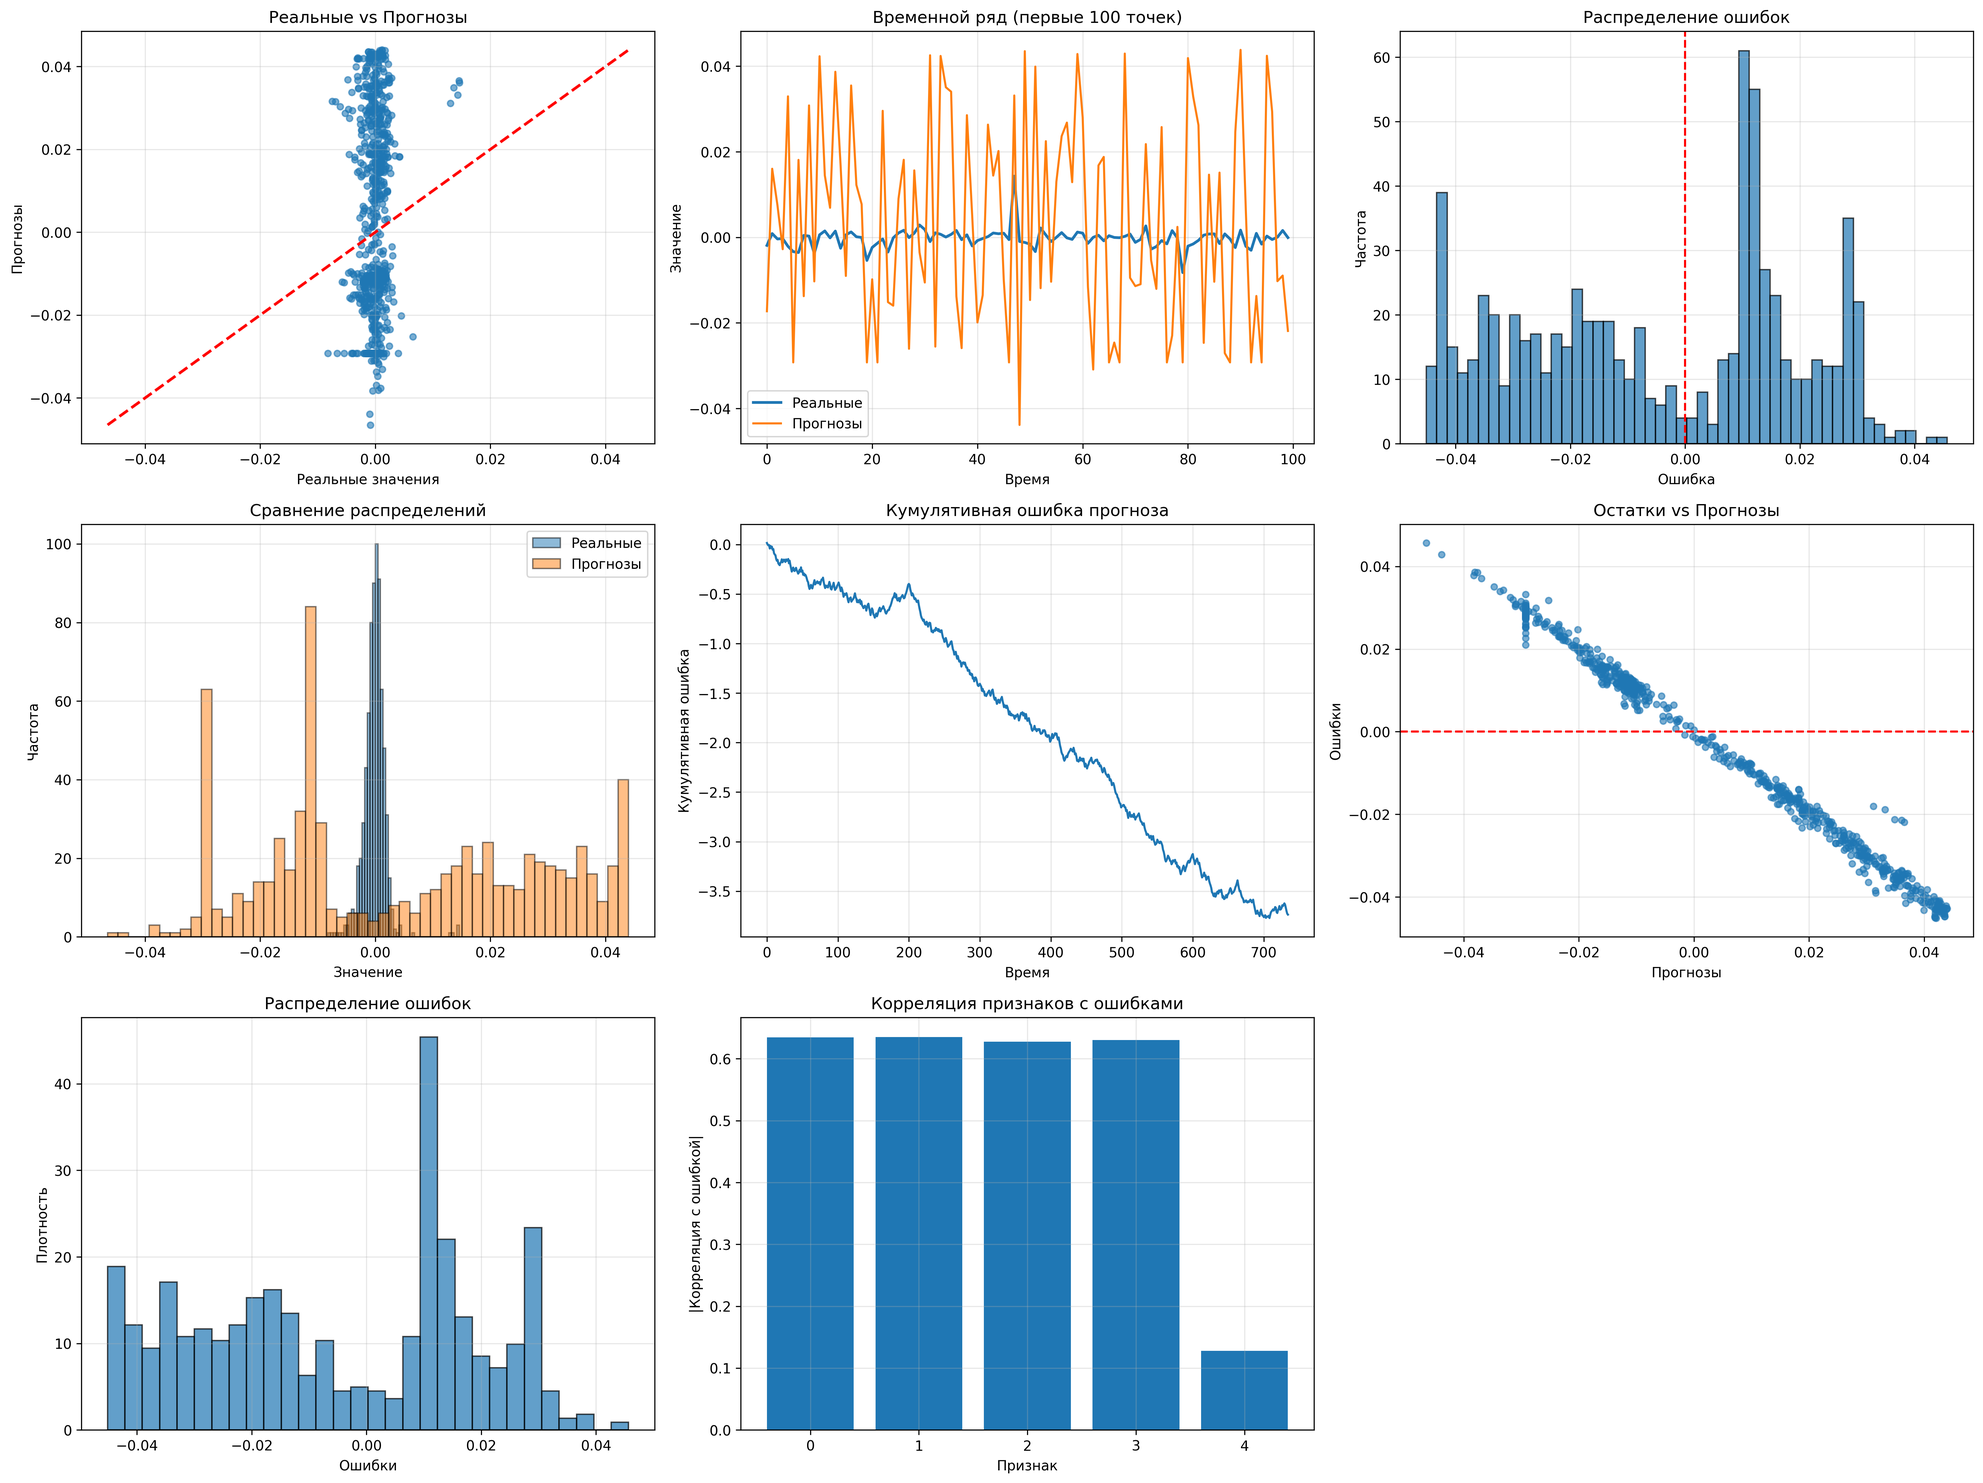
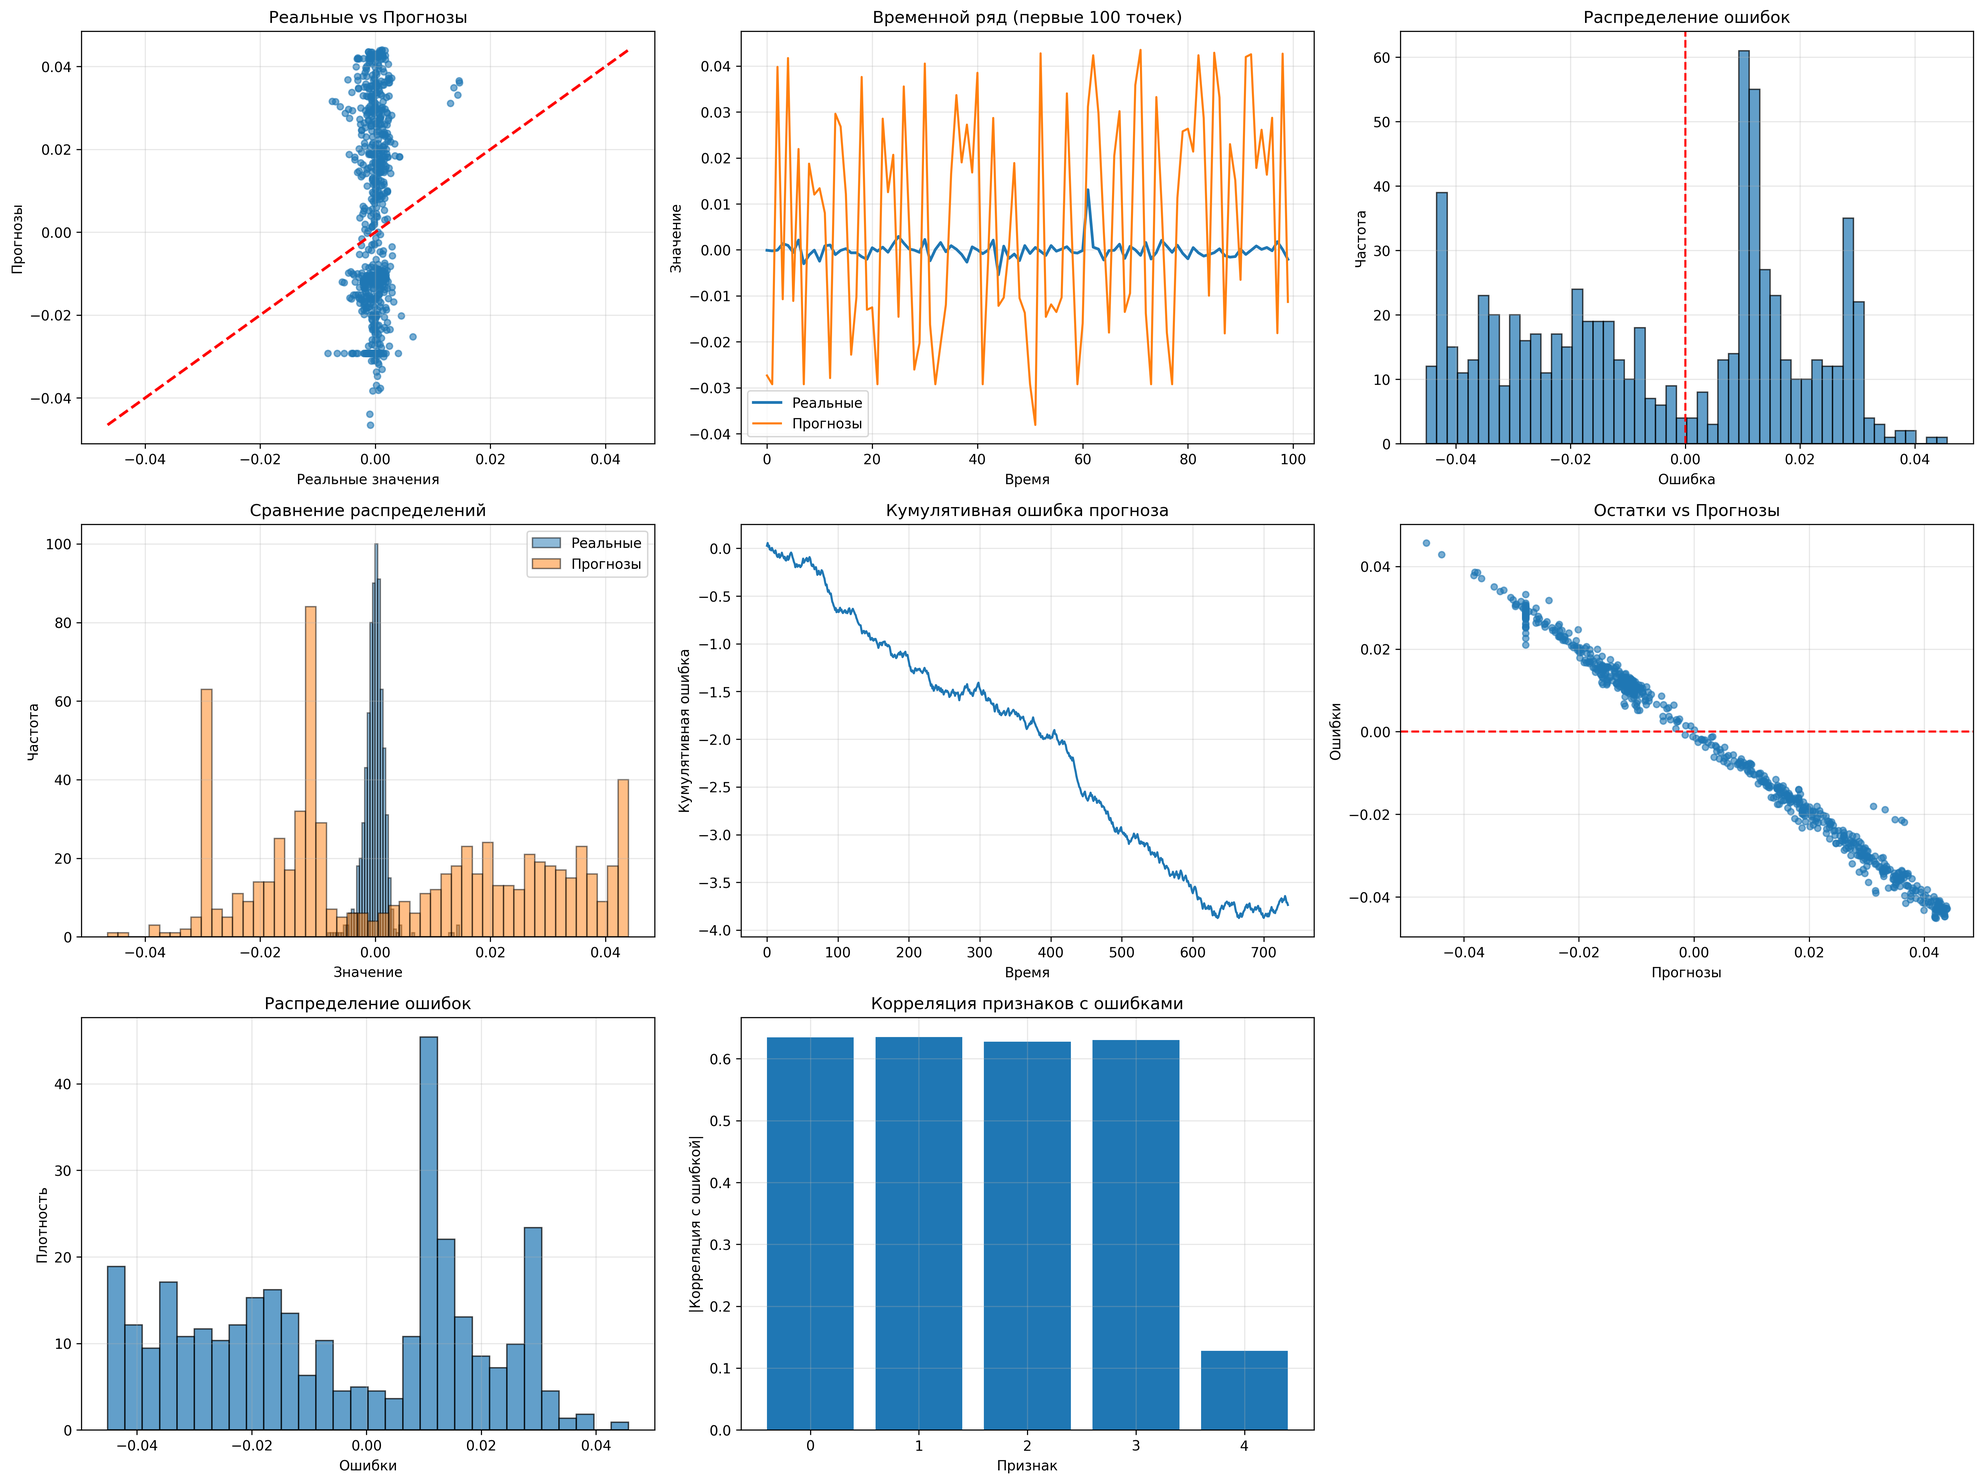
next

diff --git a/neuro.py b/neuro.py
@@ -1,12 +1,9 @@
-import os
-import pickle
 import numpy as np
 import pandas as pd
 import tensorflow as tf
 import talib
 import matplotlib
 from matplotlib import pyplot as plt
-from sklearn.model_selection import train_test_split
 from sklearn.preprocessing import StandardScaler  # ← Изменил на StandardScaler
 matplotlib.use('TkAgg')
 
@@ -14,7 +11,7 @@ VERSION = "2.5"  # ← Обновил версию
 MIN = 10
 TIMESTEP = 100
 BATCH_SIZE = 32  # ← Увеличил для GPU
-PREDICTION = -5  # ← Упростил прогноз
+PREDICTION = -20  # ← Упростил прогноз
 VOLUME_DATA = 100000
 FILE_NAME = 'BD/SBER_10.csv'
 
@@ -116,27 +113,21 @@ class NeuroBrain:
         return np.array(Xs), np.array(ys)
 
     def simple_directional_loss(self, y_true, y_pred):
-        """Исправленная функция потерь"""
+        """Упрощенная функция потерь с учетом направления"""
         # Основная MSE loss
         mse_loss = tf.reduce_mean(tf.square(y_true - y_pred))
 
-        # Directional component (для всего батча)
-        true_changes = y_true[1:] - y_true[:-1]  # Изменения между последовательными точками
+        # Вычисление правильных направлений
+        true_changes = y_true[1:] - y_true[:-1]
         pred_changes = y_pred[1:] - y_pred[:-1]
 
-        # Правильные направления (same sign)
-        correct_directions = tf.cast(
-            tf.equal(tf.sign(true_changes), tf.sign(pred_changes)),
-            tf.float32
+        # Directional accuracy
+        directional_accuracy = tf.reduce_mean(
+            tf.cast(tf.sign(true_changes) == tf.sign(pred_changes), tf.float32)
         )
 
-        # Directional accuracy (чем больше тем лучше)
-        directional_accuracy = tf.reduce_mean(correct_directions)
-
-        # Комбинируем: 90% MSE + 10% directional
-        total_loss = 0.9 * mse_loss + 0.1 * (1.0 - directional_accuracy)
-
-        return total_loss
+        # Комбинированная loss: 90% MSE + 10% directional
+        return 0.9 * mse_loss + 0.1 * (1.0 - directional_accuracy)
 
     def plot_predictions(self, y_true, y_pred, title="Прогноз vs Реальность"):
         """Визуализация прогнозов"""
@@ -167,15 +158,9 @@ if __name__ == "__main__":
     # Создание фич
     df = neuro.data_create(data)
 
-    # УПРОЩЕННАЯ целевая переменная - прогноз на 5 шагов вперед
-    df["target"] = (df["close"].shift(-5) / df["close"]) - 1  # ← Простой и понятный target
+    df["target"] = (df["close"].shift(-20) / df["close"]) - 1
 
-    # Удаляем NaN
     df = df.dropna()
-
-    print("=== ИНФОРМАЦИЯ О ДАННЫХ ===")
-    print(f"Размер данных: {len(df)}")
-    print(f"Колонки: {df.columns.tolist()}")
 
     # Подготовка фич и target
     features = df[neuro.feature_columns]
@@ -184,8 +169,6 @@ if __name__ == "__main__":
     # Масштабирование
     feature_scaler = StandardScaler()
     features_scaled = feature_scaler.fit_transform(features)
-
-
 
     # Создание последовательностей
     X_seq, y_seq = neuro.create_sequences(features_scaled, target.values, TIMESTEP)
@@ -207,72 +190,21 @@ if __name__ == "__main__":
     X_test = X_seq[train_size + val_size:]
     y_test = y_seq[train_size + val_size:]
 
-    print(f"\n=== РАЗДЕЛЕНИЕ ДАННЫХ ===")
-    print(f"Train: {len(X_train)} samples")
-    print(f"Val: {len(X_val)} samples")
-    print(f"Test: {len(X_test)} samples")
-
-    # Диагностика target
-    print(f"\n=== ДИАГНОСТИКА TARGET ===")
-    print(f"Train target - Min: {y_train.min():.6f}, Max: {y_train.max():.6f}")
-    print(f"Train target - Mean: {y_train.mean():.6f}, Std: {y_train.std():.6f}")
 
     target_scaler = StandardScaler()
     y_train_scaled = target_scaler.fit_transform(y_train.reshape(-1, 1)).flatten()
     y_val_scaled = target_scaler.transform(y_val.reshape(-1, 1)).flatten()
 
-    # Создание и компиляция модели
-    model = neuro.build_model((X_train.shape[1], X_train.shape[2]))
 
+    model = neuro.build_model((X_train.shape[1], X_train.shape[2]))
+    print(X_train.shape[1], X_train.shape[2])
     model.compile(
         optimizer=tf.keras.optimizers.Adam(learning_rate=0.001),
-        loss='mse',  # ← Начните с простого MSE
+        loss='mse',
         metrics=['mae', 'mse']
     )
-
-    print(f"\n=== ИНФОРМАЦИЯ О МОДЕЛИ ===")
     model.summary()
 
-    # Проверка предсказаний ДО обучения
-    print("=== ПРОВЕРКА МОДЕЛИ ДО ОБУЧЕНИЯ ===")
-
-    # Сделаем предсказания на первых 10 samples ДО обучения
-    initial_predictions = model.predict(X_train[:10], verbose=0).flatten()
-    print("Предсказания ДО обучения:")
-    print(initial_predictions)
-
-    print(f"Среднее предсказаний: {np.mean(initial_predictions):.6f}")
-    print(f"Стандартное отклонение: {np.std(initial_predictions):.6f}")
-
-    # Проверяем веса модели
-    print(f"\n=== ПРОВЕРКА ВЕСОВ ===")
-    for layer in model.layers:
-        if hasattr(layer, 'weights') and layer.weights:
-            weights = layer.get_weights()
-            if len(weights) > 0:
-                weight_mean = np.mean(np.abs(weights[0]))
-                print(f"{layer.name}: mean weight = {weight_mean:.6f}")
-
-    # Быстрое обучение на 1 эпоху чтобы посмотреть тренд
-    print(f"\n=== БЫСТРЫЙ ТЕСТ НА 1 ЭПОХУ ===")
-    # Быстрое обучение (строка ~95):
-    test_history = model.fit(
-        X_train[:1000], y_train_scaled[:1000],  # ← y_train_scaled
-        epochs=1, batch_size=32, verbose=1
-    )
-
-    # Проверяем предсказания ПОСЛЕ 1 эпохи
-    after_predictions = model.predict(X_train[:10], verbose=0).flatten()
-    print("Предсказания ПОСЛЕ 1 эпохи:")
-    print(after_predictions)
-    print(f"Среднее после обучения: {np.mean(after_predictions):.6f}")
-    print(f"Стандартное отклонение после: {np.std(after_predictions):.6f}")
-
-    # Если стандартное отклонение близко к 0 - модель предсказывает константу!
-    if np.std(after_predictions) < 0.0001:
-        print("🚨 МОДЕЛЬ ПРЕДСКАЗЫВАЕТ КОНСТАНТУ!")
-    else:
-        print("✅ Модель учится нормально")
 
     # Обучение
     print(f"\n=== НАЧАЛО ОБУЧЕНИЯ ===")
@@ -292,21 +224,3 @@ if __name__ == "__main__":
     # Сохранение модели
     model.save(MODEL_NAME)
     print(f"Модель сохранена как: {MODEL_NAME}")
-
-    test_predictions_scaled = model.predict(X_test, verbose=0).flatten()
-    test_predictions = target_scaler.inverse_transform(test_predictions_scaled.reshape(-1, 1)).flatten()
-
-    # Тестирование и визуализация
-    test_predictions = model.predict(X_test, verbose=0).flatten()
-
-    # Метрики качества
-    test_mae = np.mean(np.abs(y_test - test_predictions))
-    test_mse = np.mean((y_test - test_predictions) ** 2)
-
-    print(f"\n=== РЕЗУЛЬТАТЫ ТЕСТИРОВАНИЯ ===")
-    print(f"Test MAE: {test_mae:.6f}")
-    print(f"Test MSE: {test_mse:.6f}")
-
-    # Визуализация прогнозов
-    neuro.plot_predictions(y_test, test_predictions,
-                           f"Прогноз vs Реальность (MAE: {test_mae:.4f})")

diff --git a/graf.py b/graf.py
@@ -1,10 +1,15 @@
+import numpy as np
 import pandas as pd
 import matplotlib.pyplot as plt
 import matplotlib
+from sklearn.preprocessing import StandardScaler
+
+import neuro
+
 matplotlib.use('TkAgg')
 
 # Загружаем данные
-df = pd.read_csv('BD/SBER_10_NOW.csv').tail(1000)
+df = pd.read_csv('BD/SBER_10_NOW.csv').head(1000)
 
 for i in range(1, 21):
     df[f'close_plus_{i}'] = df['close'].shift(-i)
@@ -18,22 +23,47 @@ close_columns = [f'close_plus_{i}' for i in range(1, 21)]
 df['max_next_20'] = df[close_columns].max(axis=1)
 df['ver'] = (df['close'] / df['close'].shift(1)) - 1
 
-df["target"] = ((df["close"].shift(-1) / df["close"]) - 1) + \
-               ((df["close"].shift(-2) / df["close"].shift(-1)) - 1) + \
-               ((df["close"].shift(-3) / df["close"].shift(-2)) - 1) + \
-               ((df["close"].shift(-4) / df["close"].shift(-3)) - 1) + \
-               ((df["close"].shift(-5) / df["close"].shift(-4)) - 1) + \
-               ((df["close"].shift(-6) / df["close"].shift(-5)) - 1) + \
-               ((df["close"].shift(-7) / df["close"].shift(-6)) - 1) + \
-               ((df["close"].shift(-8) / df["close"].shift(-7)) - 1) + \
-               ((df["close"].shift(-9) / df["close"].shift(-8)) - 1) + \
-               ((df["close"].shift(-10) / df["close"].shift(-9)) - 1) + \
-               ((df["close"].shift(-11) / df["close"].shift(-10)) - 1) + \
-               ((df["close"].shift(-12) / df["close"].shift(-11)) - 1) + \
-               ((df["close"].shift(-13) / df["close"].shift(-12)) - 1) + \
-               ((df["close"].shift(-14) / df["close"].shift(-13)) - 1) + \
-               ((df["close"].shift(-15) / df["close"].shift(-14)) - 1)
+df["target"] = (df["close"].shift(-20) / df["close"]) - 1
 
+df = df.dropna()
+def create_sequences(X, y, time_steps=100):
+    """Создание последовательностей для временных рядов"""
+    Xs, ys = [], []
+    for i in range(time_steps, len(X)):
+        Xs.append(X[i - time_steps:i])
+        ys.append(y[i])
+
+    # print(len(Xs), len(ys))
+    # print(np.array(Xs), np.array(ys))
+    return np.array(Xs), np.array(ys)
+
+# Подготовка фич и target
+neu = neuro.NeuroBrain()
+features = df['close']
+target = df['target']
+#
+# # Масштабирование
+# feature_scaler = StandardScaler()
+# features_scaled = feature_scaler.fit_transform(features)
+#
+X_seq, y_seq = create_sequences(features, target.values, 100)
+# print(X_seq, y_seq)
+
+target_scaler = StandardScaler()
+yyy = target_scaler.fit_transform(y_seq.reshape(-1, 1)).flatten()
+xxx = target_scaler.fit_transform(X_seq.reshape(-1, 1)).flatten()
+
+yyy_s = np.concatenate([
+    [np.nan] * 100,  # Добавляем 100 NaN в начало
+    yyy[:-100]       # Берем все элементы кроме последних 100
+])
+
+print(xxx, yyy)
+
+# xxx_s = np.concatenate([
+#     [np.nan] * 100,  # Добавляем 100 NaN в начало
+#     xxx[:-100]       # Берем все элементы кроме последних 100
+# ])
 # # Отображаем свечи
 # for i in range(len(df)):
 #     color = 'green' if df['close'].iloc[i] >= df['open'].iloc[i] else 'red'
@@ -46,6 +76,8 @@ df["target"] = ((df["close"].shift(-1) / df["close"]) - 1) + \
 
 fig, (ax1, ax2, ax3) = plt.subplots(3, 1, figsize=(15, 16), sharex=True)
 
+print(df.index)
+
 # График 1: Цены закрытия
 ax1.plot(df.index, df['close'], label='Close Price', color='blue', linewidth=2)
 ax1.set_title('Цены закрытия (база для прогноза)', fontsize=14, fontweight='bold')
@@ -55,13 +87,18 @@ ax1.legend()
 ax1.grid(True, which='both', alpha=0.3)
 ax1.minorticks_on()  # Включаем минорные деления
 
-ax2.plot(df.index, df['max_next_20'], color='green', linewidth=2)
+ax2.plot(xxx[1], color='green', linewidth=2)
 ax2.legend()
 ax2.grid(True, alpha=0.3)
 
-ax3.plot(df.index, df['target'], color='green', linewidth=2)
+ax3.plot(yyy_s, color='green', linewidth=2)
 ax3.legend()
 ax3.grid(True, alpha=0.3)
+
+ax3.plot(df.index, df['target'], color='green', linewidth=2)
+ax3.legend()
+ax3.grid(True, which='both', alpha=0.3)
+ax3.minorticks_on()  # Включаем минорные деления
 
 plt.tight_layout()
 plt.show()

diff --git a/diagnostic.py b/diagnostic.py
@@ -406,26 +406,12 @@ def test_model_predictions():
     print(f"Test:  {X_test.shape} ({len(X_test)} samples)")
 
     # Загрузка обученной модели
-    try:
-        model = tf.keras.models.load_model("models/model_10min_step_100_pred_5_100000_2.5.keras")
+    model = tf.keras.models.load_model("models/model_10min_step_100_pred_5_100000_2.5.keras")
 
-        # ДОБАВЬ:
-        try:
-            with open('target_scaler.pkl', 'rb') as f:
-                target_scaler = pickle.load(f)
-            print("✅ Загружен target_scaler")
-        except:
-            print("❌ target_scaler не найден, создаем новый")
-            target_scaler = StandardScaler()
-            target_scaler.fit_transform(y_train.reshape(-1, 1))
-        # Проверка архитектуры модели
-        print(f"Архитектура модели: {model.input_shape} -> {model.output_shape}")
-
-    except Exception as e:
-        print(f"❌ Ошибка загрузки модели: {e}")
-        print("Создаем новую модель для теста...")
-        model = neuro.build_model((X_train.shape[1], X_train.shape[2]))
-        model.compile(optimizer='adam', loss='mse')
+    target_scaler = StandardScaler()
+    y_train_scaled = target_scaler.fit_transform(y_train.reshape(-1, 1))
+    # Проверка архитектуры модели
+    print(f"Архитектура модели: {model.input_shape} -> {model.output_shape}")
 
     # Проверка предсказаний перед анализом
     print("\n=== БЫСТРАЯ ПРОВЕРКА МОДЕЛИ ===")
@@ -444,7 +430,7 @@ def test_model_predictions():
     analyzer.comprehensive_analysis(
         X_test=X_test,
         y_test=y_test,  # оригинальные y_test
-        y_train=y_train,  # оригинальные y_train
+        y_train=y_train_scaled,  # оригинальные y_train
         n_samples=min(2000, len(X_test))
     )
 
